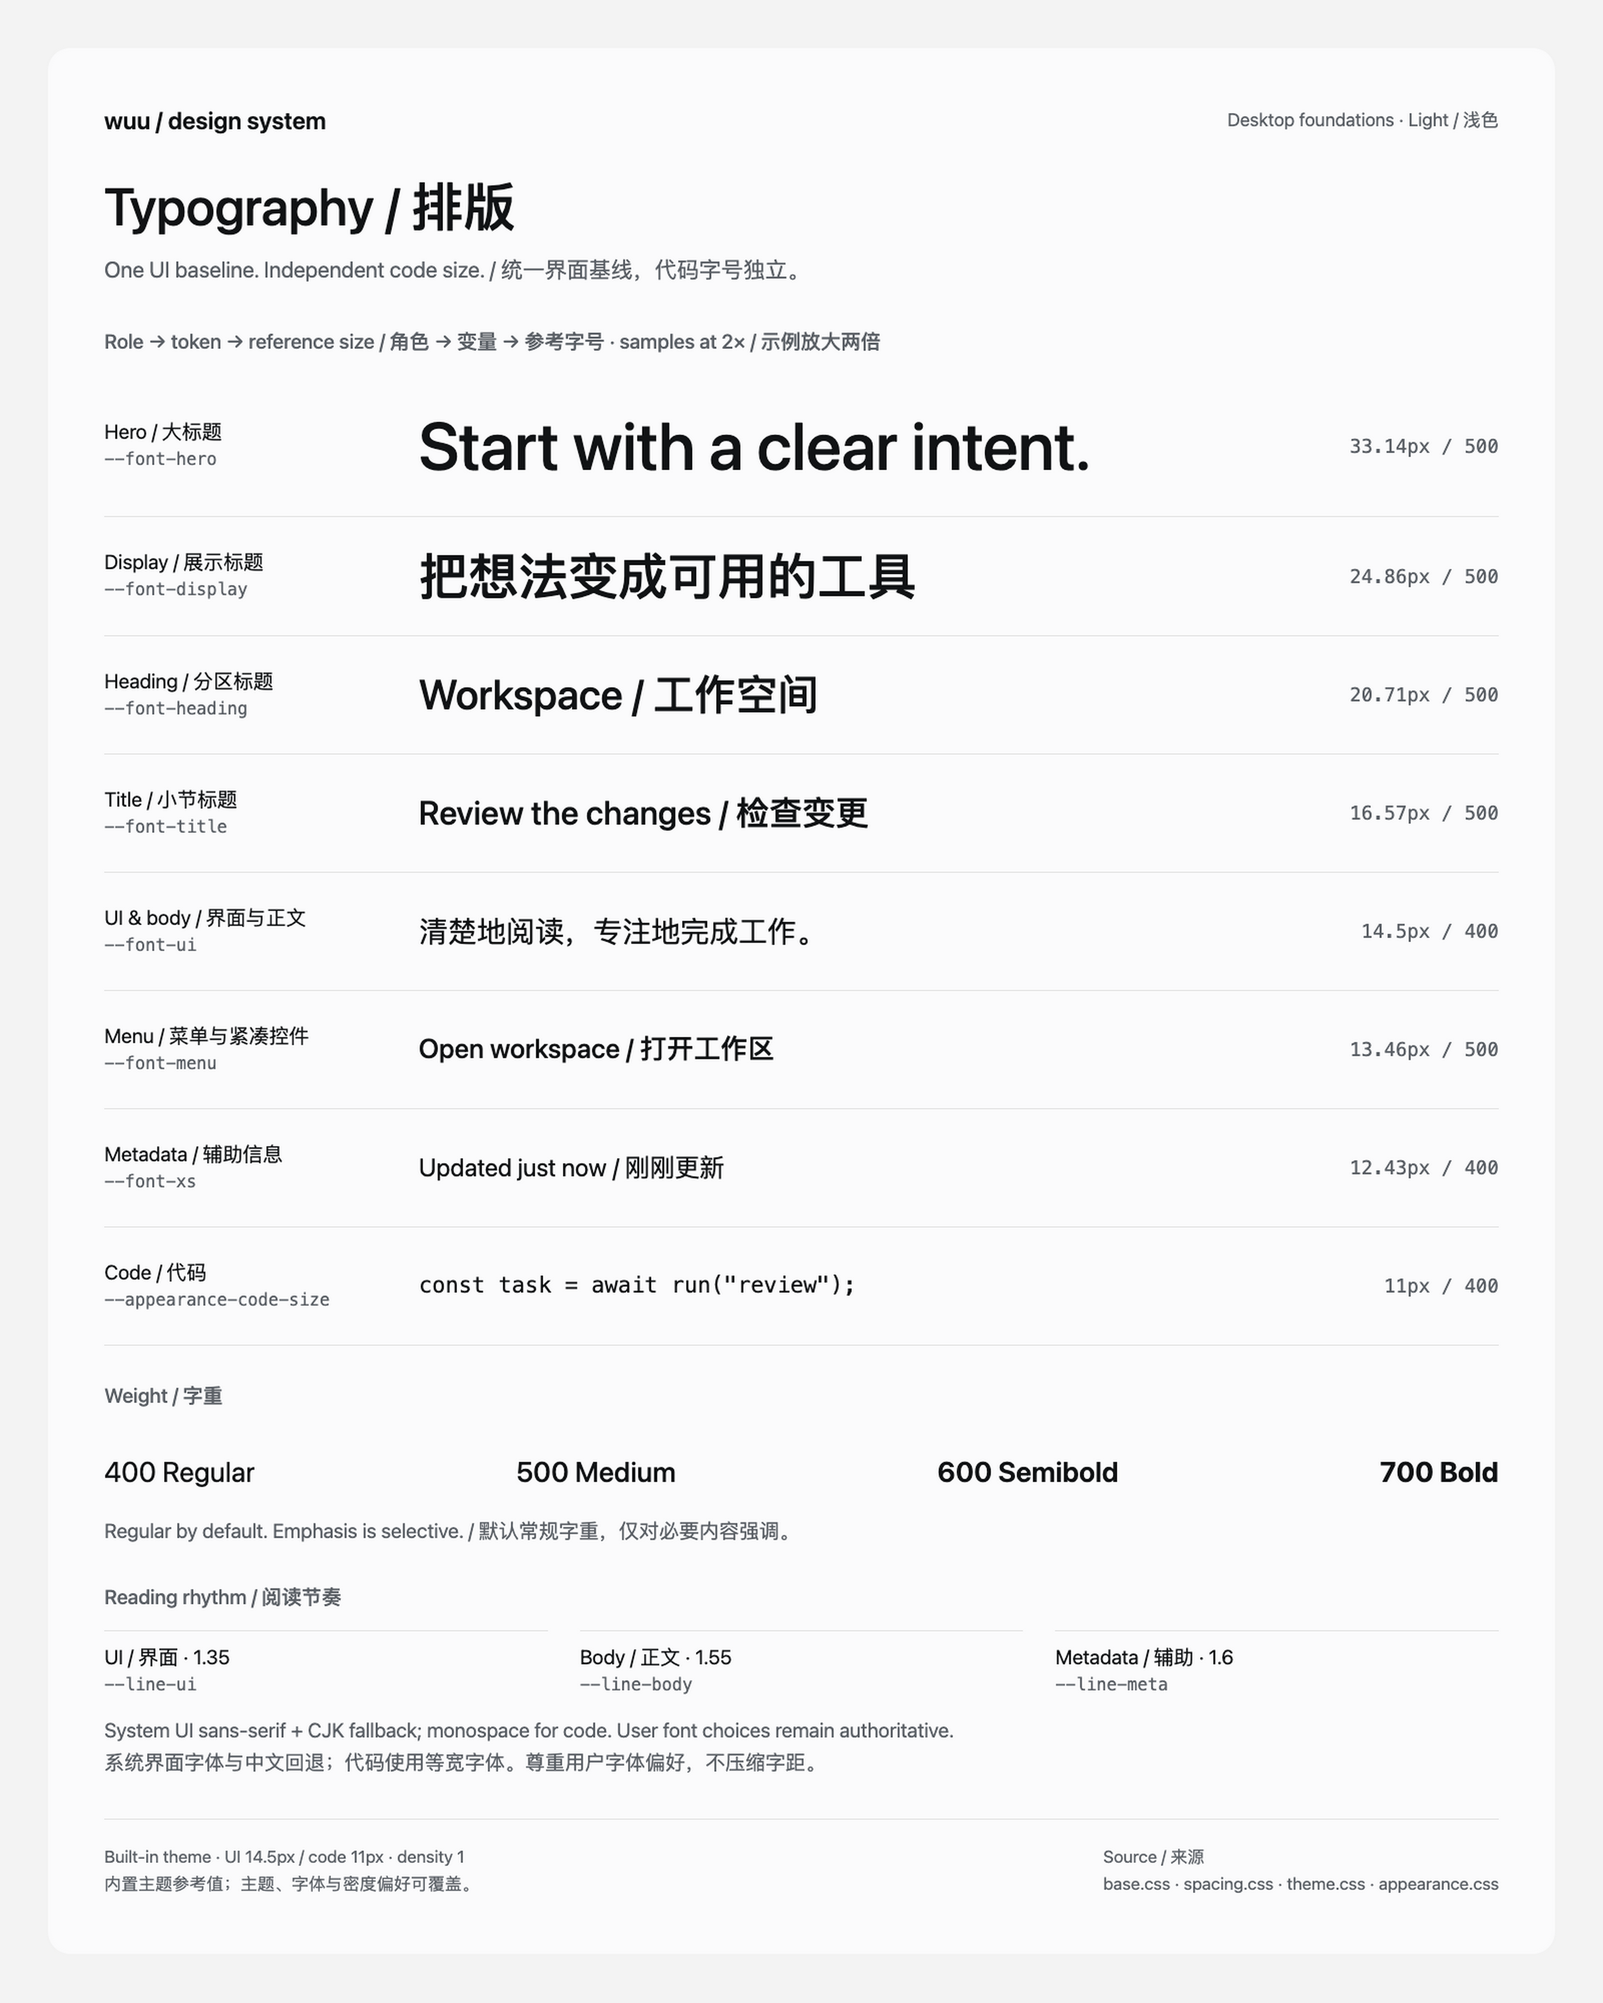
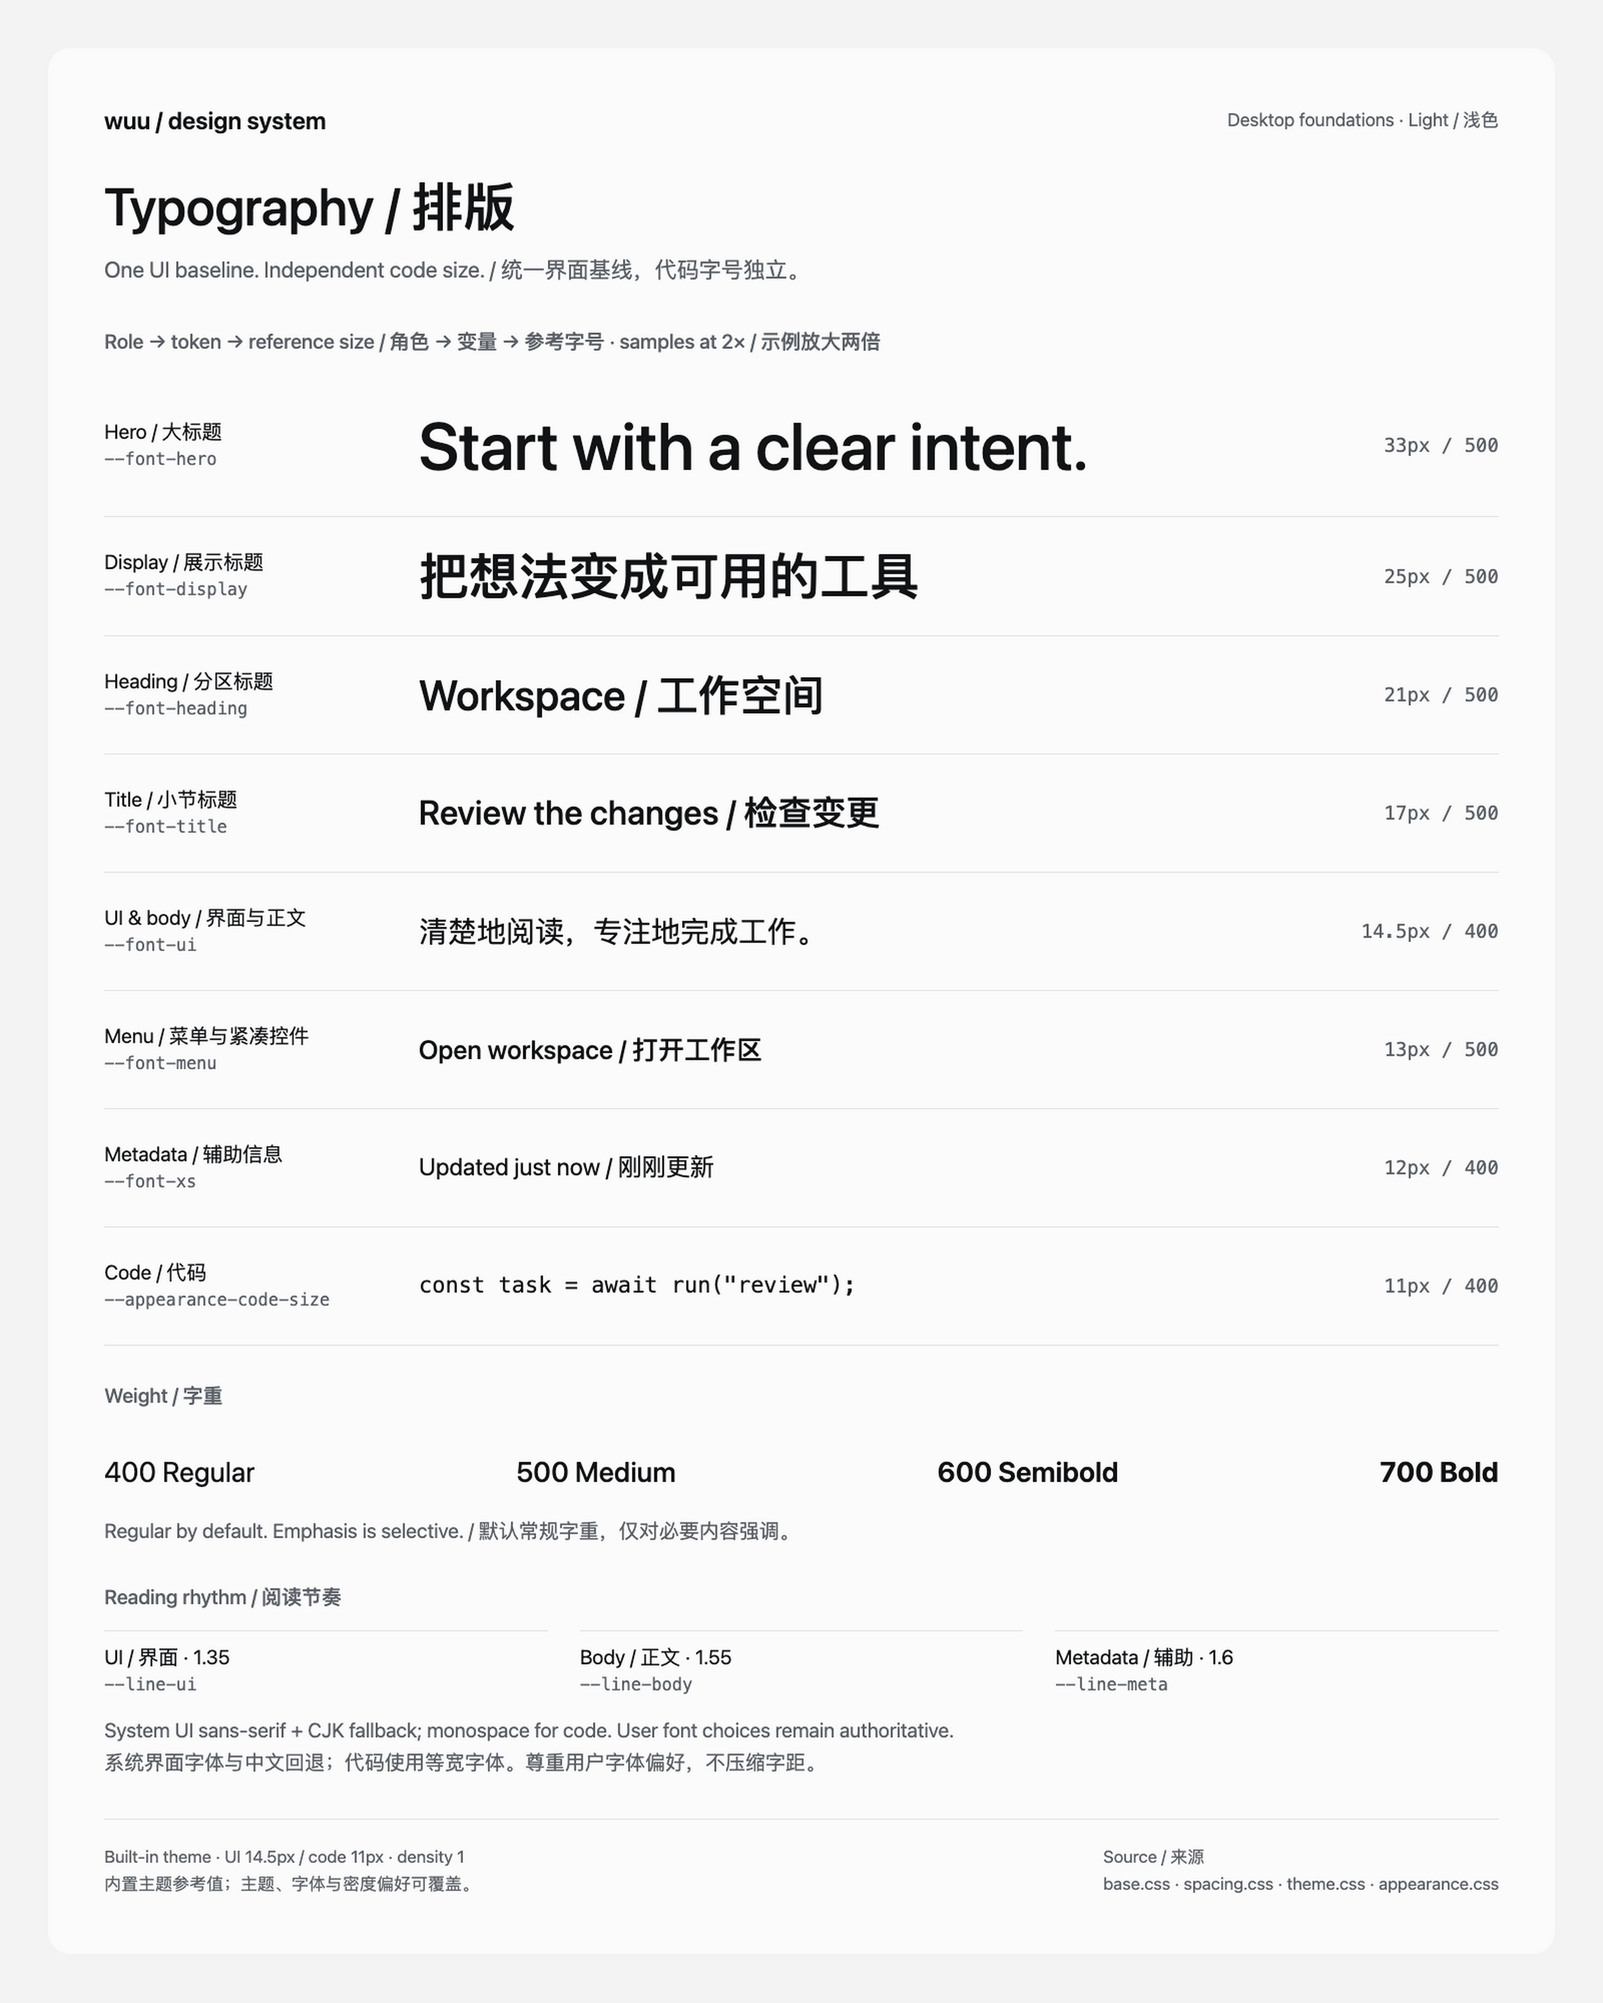
docs: document desktop alignment axes in the design system
Add an alignment-axes section to the English and Chinese design system
pages: the pane inset measured to glyph ink, the shared prose edge for
unframed message content, the card inset for framed content, and accessory
columns. Record the whole-pixel type values, reading leading, heading steps,
even icon sizes and 4px control floors.

Regenerate the geometry and type boards from the updated tokens; the
geometry board now lists --pane-inset.

diff --git a/docs/en/project/design-system.md b/docs/en/project/design-system.md
@@ -71,18 +71,20 @@ Use the system UI font with CJK fallback and respect user font choices. Code, ed
 
 The current runtime defaults are **14.5px UI** and **11px code**. Ratios in `appearance.css` use 14 as their denominator: 14px is the proportional reference, not the current startup default. Valid saved preferences remain authoritative and must not be reset to the documented defaults.
 
-| Role | Variables | Relationship to UI size U | Approximate value at U = 14.5px |
+| Role | Variables | Relationship to UI size U | Value at U = 14.5px |
 | --- | --- | --- | --- |
-| Hero | `--font-hero` | U × 32 / 14 | 33.14px |
-| Display | `--font-display` | U × 24 / 14 | 24.86px |
-| Heading | `--font-heading` | U × 20 / 14 | 20.71px |
-| Title | `--font-title` | U × 16 / 14 | 16.57px |
+| Hero | `--font-hero` | round(U × 32 / 14) | 33px |
+| Display | `--font-display` | round(U × 24 / 14) | 25px |
+| Heading | `--font-heading` | round(U × 20 / 14) | 21px |
+| Title | `--font-title` | round(U × 16 / 14) | 17px |
 | UI and body | `--font-ui`, `--font-body`, `--font-content` | U | 14.5px |
-| Menus and compact controls | `--font-menu`, `--font-sm` | U × 13 / 14 | 13.46px |
-| Metadata | `--font-xs` | max(12px, U × 12 / 14) | 12.43px |
+| Menus and compact controls | `--font-menu`, `--font-sm` | round(U × 13 / 14) | 13px |
+| Metadata | `--font-xs` | max(12px, round(U × 12 / 14)) | 12px |
 | Code | `--appearance-code-size` | Independent preference | 11px |
 
-Use 400 for ordinary text, 500 for compact menu items, and 500 or 600 selectively for headings and emphasis. Reserve 700 for occasional strong emphasis. Base line-height roles are 1.35 for UI, 1.55 for body, and 1.6 for metadata; individual reading surfaces may have semantic overrides, not one forced line height for every component. Preserve natural letter spacing instead of shrinking type or tightening tracking to repair layout.
+Derived roles round to whole pixels. The saved UI size may be a half step, but fractional derived sizes would put line boxes and 1px edges between device pixels.
+
+Use 400 for ordinary text, 500 for compact menu items, and 500 or 600 selectively for headings and emphasis. Reserve 700 for occasional strong emphasis. Base line-height roles are 1.35 for UI, 1.55 for body, and 1.6 for metadata; individual reading surfaces may have semantic overrides, not one forced line height for every component. Conversation reading and process leading are whole-pixel lengths derived from the message size (1.8 and 1.6, rounded to 2px), so stacked rows and cards share edges. Message headings step to 1.5, 1.25, and 1.1 times the body size, rounded to whole pixels, so hierarchy does not rest on weight alone. Preserve natural letter spacing instead of shrinking type or tightening tracking to repair layout.
 
 ## Spacing and layout
 
@@ -90,6 +92,7 @@ The standard unit is 4px, multiplied by density to form `--space-1`. The existin
 
 | Relationship | Variables | Standard density |
 | --- | --- | --- |
+| Pane edge to first and last glyph | `--pane-inset` | 20px |
 | Page inset | `--page-padding` | 32px |
 | Between groups | `--section-gap` | 32px |
 | Heading to content | `--section-heading-gap` | 16px |
@@ -98,7 +101,16 @@ The standard unit is 4px, multiplied by density to form `--space-1`. The existin
 | Control block/inline padding | `--control-padding-block`, `--control-padding-inline` | 4px, 12px |
 | Menu inset and item gap | `--menu-inset`, `--menu-item-gap` | 6px, 8px |
 
-At widths up to 560px, page and panel insets become 16px and card insets 12px, still affected by density. Shared fields and menu rows have a 32px floor, or 44px for coarse pointers. They grow further with text and content; fixed heights must not clip text. These field and menu-row roles do not assign one size to every icon button.
+At widths up to 560px, page, pane, and panel insets become 16px and card insets 12px, still affected by density. Shared fields and menu rows have a 32px floor, or 44px for coarse pointers, and round up to the 4px grid. They grow further with text and content; fixed heights must not clip text. These field and menu-row roles do not assign one size to every icon button.
+
+### Alignment axes
+
+Every edge that reads as aligned must come from one shared role, not from separately tuned values that happen to be close.
+
+- **Pane inset.** In chrome rows such as sidebar rows, titlebars, and tab bars, the first and last visible glyph sits `--pane-inset` from the pane edge. Align ink, not button boxes: a control whose box is larger than its glyph subtracts its optical offset, such as `--control-toolbar-glyph-offset` for toolbar buttons.
+- **Reading column.** Unframed content (paragraphs, headings, lists, process rows, answer actions) shares the column's leading edge. Message tables have no side frame, so their outer cell text also starts on that edge.
+- **Framed content.** Code blocks, the composer, message bubbles, and cards place text and icon glyphs `--card-padding` from the outer edge; a frame's border is part of that measurement. A code block's language label, its code, and the composer's text therefore share one axis.
+- **Accessory columns.** Sidebar trailing accessories of different sizes share one center axis. Headings reserve their accessory's footprint whether or not the section has one, so group spacing does not depend on which headings offer an action.
 
 Align peer labels, icon columns, and trailing actions. Indentation expresses hierarchy, independent of running or unread status. Reserve the real footprint of indicators and actions plus a reading gap. Give each spacing relationship one owner rather than accumulating wrapper gaps, child margins, and invisible drag targets. Use appropriate reading-width roles such as `--content-column-width`, not one mandatory width for every page.
 
@@ -119,7 +131,7 @@ Choose elevation by purpose: `--shadow-soft` for light controls, `--shadow-card`
 
 ## Icons, motion, and controls
 
-Controls reuse [WuuIcons](../../../desktop/src/renderer/WuuIcons.tsx), not a competing stroke style. Standard drawings use a 24-unit canvas and 1.75 stroke. Use `--icon-size-*` roles with bounded growth as UI text increases. At a 14px UI reference, the sizes are 12, 14, 16, 18, and 20px. Still inspect apparent size, centering, and stroke density.
+Controls reuse [WuuIcons](../../../desktop/src/renderer/WuuIcons.tsx), not a competing stroke style. Standard drawings use a 24-unit canvas and 1.75 stroke. Use `--icon-size-*` roles with bounded growth as UI text increases. Sizes round to even pixels so glyphs center in even control boxes; at the 14px reference and the 14.5px default they are 12, 14, 16, 18, and 20px. Still inspect apparent size, centering, and stroke density.
 
 Motion provides feedback and explains position changes: `--motion-fast` 120ms for immediate feedback, `--motion-base` 180ms for menus and content swaps, `--motion-slow` 280ms for structural moves, and `--motion-slower` 440ms for larger folds. Prefer existing semantic aliases and honor system or user reduced-motion settings. Frequent actions must not wait for decorative animation; preserve established component-specific motion contracts.
 

diff --git a/docs/zh-cn/project/design-system.md b/docs/zh-cn/project/design-system.md
@@ -71,18 +71,20 @@ Renderer 当前定义了默认值为朱红的 `--wuu-accent` 和 `--wuu-accent-p
 
 当前运行时 UI 默认值为 **14.5px**，代码为 **11px**。`appearance.css` 的比例分母是 14，因此 14px 是比例参考点，不等于当前启动默认值。已有字号偏好优先；文档不要求把用户设置重置为默认值。
 
-| 角色 | 变量 | 与 UI 基线 U 的关系 | U = 14.5px 时约值 |
+| 角色 | 变量 | 与 UI 基线 U 的关系 | U = 14.5px 时取值 |
 | --- | --- | --- | --- |
-| 大标题 | `--font-hero` | U × 32 / 14 | 33.14px |
-| 展示标题 | `--font-display` | U × 24 / 14 | 24.86px |
-| 分区标题 | `--font-heading` | U × 20 / 14 | 20.71px |
-| 小节标题 | `--font-title` | U × 16 / 14 | 16.57px |
+| 大标题 | `--font-hero` | round(U × 32 / 14) | 33px |
+| 展示标题 | `--font-display` | round(U × 24 / 14) | 25px |
+| 分区标题 | `--font-heading` | round(U × 20 / 14) | 21px |
+| 小节标题 | `--font-title` | round(U × 16 / 14) | 17px |
 | 界面与正文 | `--font-ui`、`--font-body`、`--font-content` | U | 14.5px |
-| 菜单与紧凑控件 | `--font-menu`、`--font-sm` | U × 13 / 14 | 13.46px |
-| 辅助信息 | `--font-xs` | max(12px, U × 12 / 14) | 12.43px |
+| 菜单与紧凑控件 | `--font-menu`、`--font-sm` | round(U × 13 / 14) | 13px |
+| 辅助信息 | `--font-xs` | max(12px, round(U × 12 / 14)) | 12px |
 | 代码 | `--appearance-code-size` | 独立偏好 | 11px |
 
-常规文字用 400，紧凑菜单选项用 500，必要的标题与强调选择 500 或 600；700 留给少量强强调。基础行高角色为 UI 1.35、正文 1.55、辅助信息 1.6；具体阅读面可有自己的语义行高，不代表所有组件强制使用同一行高。保留字体自然字距，不缩字或压字距来补救布局。
+派生角色取整到整数像素。保存的 UI 字号可以是半像素档位，但派生出的小数字号会让行框和 1px 边线落在设备像素之间。
+
+常规文字用 400，紧凑菜单选项用 500，必要的标题与强调选择 500 或 600；700 留给少量强强调。基础行高角色为 UI 1.35、正文 1.55、辅助信息 1.6；具体阅读面可有自己的语义行高，不代表所有组件强制使用同一行高。对话阅读与过程记录的行高是由消息字号派生的整数像素长度（分别为 1.8 与 1.6 倍，取整到 2px），相邻行与卡片因此共享边线。消息内标题依次为正文的 1.5、1.25、1.1 倍并取整，层级不只依赖字重。保留字体自然字距，不缩字或压字距来补救布局。
 
 ## 间距与布局
 
@@ -90,6 +92,7 @@ Renderer 当前定义了默认值为朱红的 `--wuu-accent` 和 `--wuu-accent-p
 
 | 关系 | 变量 | 标准密度 |
 | --- | --- | --- |
+| 面板边缘到首尾字形 | `--pane-inset` | 20px |
 | 页面内缩 | `--page-padding` | 32px |
 | 分组到分组 | `--section-gap` | 32px |
 | 标题到内容 | `--section-heading-gap` | 16px |
@@ -98,7 +101,16 @@ Renderer 当前定义了默认值为朱红的 `--wuu-accent` 和 `--wuu-accent-p
 | 控件纵向、横向内缩 | `--control-padding-block`、`--control-padding-inline` | 4px、12px |
 | 菜单内缩、选项间距 | `--menu-inset`、`--menu-item-gap` | 6px、8px |
 
-宽度不超过 560px 时，页面和面板内缩为 16px，卡片为 12px（仍受密度影响）。表单和菜单行的共享高度下限为 32px；粗指针下为 44px。字号或内容增长时，实际高度应继续增长，不能用固定高度裁字。以上是共享字段与菜单行的尺寸角色，并非所有图标按钮的统一尺寸。
+宽度不超过 560px 时，页面、面板边缘和面板内缩为 16px，卡片为 12px（仍受密度影响）。表单和菜单行的共享高度下限为 32px，粗指针下为 44px，并向上取整到 4px 网格。字号或内容增长时，实际高度应继续增长，不能用固定高度裁字。以上是共享字段与菜单行的尺寸角色，并非所有图标按钮的统一尺寸。
+
+### 对齐轴
+
+看起来对齐的边，必须来自同一个共享角色，而不是几个分别调过、恰好接近的数值。
+
+- **面板边缘。** 侧栏行、标题栏、标签栏等界面框架行中，首尾可见字形距离面板边缘 `--pane-inset`。对齐的是字形，不是按钮盒：按钮盒大于字形的控件要减去自己的光学偏移，例如工具栏按钮使用 `--control-toolbar-glyph-offset`。
+- **阅读列。** 无框内容（段落、标题、列表、过程记录、回答操作）共用阅读列的起始边。消息表格没有左右边框，首尾列文字也从这条边开始。
+- **带框内容。** 代码块、输入框、消息气泡和卡片中，文字与图标字形距离外边缘 `--card-padding`；边框计入这段距离。因此代码块的语言标签、代码与输入框文字共用同一条轴。
+- **附属操作列。** 侧栏尾部大小不同的附属操作共用一条中心轴。分组标题无论是否带操作，都预留操作的占位，分组间距不因哪些标题有「+」而变化。
 
 同级标签、图标列、尾部操作对齐；缩进表达层级，不因运行或未读状态改变。给状态标记、操作按钮及阅读间隙预留真实空间。每一段间距只由一层负责，避免 wrapper、子元素 margin、空拖拽区重复叠加。阅读列使用适用的最大宽度角色（如 `--content-column-width`），不是让所有页面强制同宽。
 
@@ -119,7 +131,7 @@ Renderer 当前定义了默认值为朱红的 `--wuu-accent` 和 `--wuu-accent-p
 
 ## 图标、动效与控件
 
-控件复用 [WuuIcons](../../../desktop/src/renderer/WuuIcons.tsx)，不混用另一套线条风格。标准图形基于 24 单位画布与 1.75 描边；尺寸使用 `--icon-size-*` 角色并随字号有限增长。UI 基线 14px 时，各档为 12、14、16、18、20px；视觉尺寸、居中与线条密度仍需实际检查。
+控件复用 [WuuIcons](../../../desktop/src/renderer/WuuIcons.tsx)，不混用另一套线条风格。标准图形基于 24 单位画布与 1.75 描边；尺寸使用 `--icon-size-*` 角色并随字号有限增长，并取整到偶数像素，使字形在偶数尺寸的控件中居中。UI 基线 14px 与默认 14.5px 时，各档为 12、14、16、18、20px；视觉尺寸、居中与线条密度仍需实际检查。
 
 动效服务于反馈和位置变化：`--motion-fast` 120ms 用于即时反馈，`--motion-base` 180ms 用于菜单与内容切换，`--motion-slow` 280ms 用于结构位移，`--motion-slower` 440ms 用于较大的折叠。优先使用已有语义别名，尊重减少动态效果的系统或用户偏好。不要让高频操作等待装饰动画，也不要自行覆盖组件中已有的专用动效契约。
 
